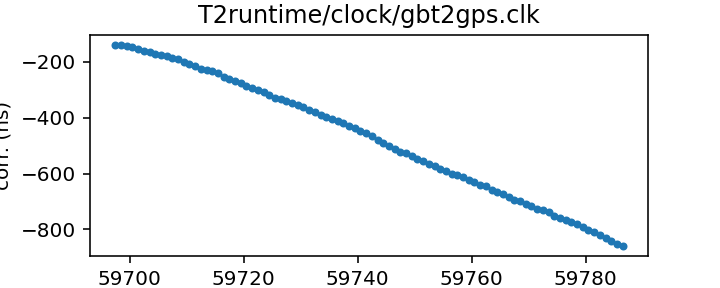
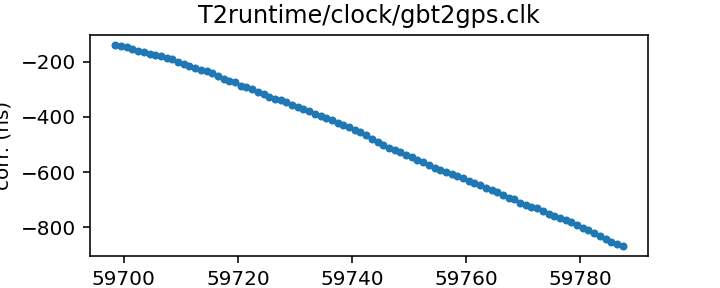
Routine gh-pages update from Github action Thu Jul 28 20:35:56 UTC 2022

diff --git a/status.md b/status.md
@@ -13,17 +13,17 @@ name of each clock file links to a page with more details.
 
 | Name | File | Corrections start | Corrections end | Last check date | Last check result 
 |:--- |:--- | --- | --- | --- |:--- 
-| [GPS to UTC](T2runtime/clock/gps2utc.clk.html) | `T2runtime/clock/gps2utc.clk` | 1993-01-01 MJD 48988.0 | 2022-06-29 MJD 59759.0 | 2022-07-27 | Unchanged 
-| [GPS to UTC (Combined Clock)](T2runtime/clock/gps2utc_cc.clk.html) | `T2runtime/clock/gps2utc_cc.clk` | 1993-01-01 MJD 48988.0 | 2022-06-29 MJD 59759.0 | 2022-07-27 | Unchanged 
-| [GPS to UTC (Corrected)](T2runtime/clock/gps2utc_c0p.clk.html) | `T2runtime/clock/gps2utc_c0p.clk` | 2010-12-29 MJD 55559.0 | 2022-06-29 MJD 59759.0 | 2022-07-27 | Unchanged 
-| [GBT](tempo/clock/time_gbt.dat.html) | `tempo/clock/time_gbt.dat` | 2000-12-31 MJD 51909.5 | 2022-07-26 MJD 59786.5 | 2022-07-27 | Updated 
-| [GBT (TEMPO2 converted from TEMPO)](T2runtime/clock/gbt2gps.clk.html) | `T2runtime/clock/gbt2gps.clk` | 2000-12-31 MJD 51909.5 | 2022-07-26 MJD 59786.5 | 2022-07-27 | Updated 
+| [GPS to UTC](T2runtime/clock/gps2utc.clk.html) | `T2runtime/clock/gps2utc.clk` | 1993-01-01 MJD 48988.0 | 2022-06-29 MJD 59759.0 | 2022-07-28 | Unchanged 
+| [GPS to UTC (Combined Clock)](T2runtime/clock/gps2utc_cc.clk.html) | `T2runtime/clock/gps2utc_cc.clk` | 1993-01-01 MJD 48988.0 | 2022-06-29 MJD 59759.0 | 2022-07-28 | Unchanged 
+| [GPS to UTC (Corrected)](T2runtime/clock/gps2utc_c0p.clk.html) | `T2runtime/clock/gps2utc_c0p.clk` | 2010-12-29 MJD 55559.0 | 2022-06-29 MJD 59759.0 | 2022-07-28 | Unchanged 
+| [GBT](tempo/clock/time_gbt.dat.html) | `tempo/clock/time_gbt.dat` | 2000-12-31 MJD 51909.5 | 2022-07-27 MJD 59787.5 | 2022-07-28 | Updated 
+| [GBT (TEMPO2 converted from TEMPO)](T2runtime/clock/gbt2gps.clk.html) | `T2runtime/clock/gbt2gps.clk` | 2000-12-31 MJD 51909.5 | 2022-07-27 MJD 59787.5 | 2022-07-28 | Updated 
 | [Jodrell Bank](T2runtime/clock/jb2gps.clk.html) | `T2runtime/clock/jb2gps.clk` | 2006-10-13 MJD 54021.4 | 2021-11-03 MJD 59521.0 | 2022-07-27 | Unchanged 
 | [Jodrell Bank Roach](T2runtime/clock/jbroach2jb.clk.html) | `T2runtime/clock/jbroach2jb.clk` | 2006-10-13 MJD 54021.4 | 2018-03-20 MJD 58197.6 | 2022-07-27 | Unchanged 
 | [Jodrell Bank DFB](T2runtime/clock/jbdfb2jb.clk.html) | `T2runtime/clock/jbdfb2jb.clk` | 2006-10-13 MJD 54021.4 | 2017-05-11 MJD 57884.0 | 2022-07-27 | Unchanged 
 | [Meerkat (observatory)](T2runtime/clock/mk2utc_observatory.clk.html) | `T2runtime/clock/mk2utc_observatory.clk` | 2019-01-01 MJD 58484.0 | 2022-07-12 MJD 59773.0 | 2022-07-25 | Updated 
-| [Leap seconds](tempo/clock/leap.sec.html) | `tempo/clock/leap.sec` | 1972-07-01 MJD 41499.0 | 2017-01-01 MJD 57754.0 | 2022-07-27 | Unchanged 
-| [UT1 table](tempo/clock/ut1.dat.html) | `tempo/clock/ut1.dat` | 1973-01-02 MJD 41684.0 | 2023-07-29 MJD 60154.0 | 2022-07-27 | Unchanged 
+| [Leap seconds](tempo/clock/leap.sec.html) | `tempo/clock/leap.sec` | 1972-07-01 MJD 41499.0 | 2017-01-01 MJD 57754.0 | 2022-07-28 | Unchanged 
+| [UT1 table](tempo/clock/ut1.dat.html) | `tempo/clock/ut1.dat` | 1973-01-02 MJD 41684.0 | 2023-08-05 MJD 60161.0 | 2022-07-28 | Updated 
 
 
 
@@ -63,21 +63,21 @@ name of each clock file links to a page with more details.
 
 | Name | File | Corrections start | Corrections end | Last check date | Last check result 
 |:--- |:--- | --- | --- | --- |:--- 
-| [GPS to UTC (TEMPO2)](T2runtime/clock/gps2utc_tempo2.clk.html) | `T2runtime/clock/gps2utc_tempo2.clk` | 1996-03-27 MJD 50169.0 | 2020-10-27 MJD 59149.0 | 2022-07-21 | Unchanged 
+| [GPS to UTC (TEMPO2)](T2runtime/clock/gps2utc_tempo2.clk.html) | `T2runtime/clock/gps2utc_tempo2.clk` | 1996-03-27 MJD 50169.0 | 2020-10-27 MJD 59149.0 | 2022-07-28 | Unchanged 
 | [GBT (TEMPO2)](T2runtime/clock/gbt2gps_tempo2.clk.html) | `T2runtime/clock/gbt2gps_tempo2.clk` | 2000-12-31 MJD 51909.5 | 2020-02-25 MJD 58904.5 | 2022-07-25 | Unchanged 
-| [Jodrell Bank (TEMPO)](tempo/clock/time_jb.dat.html) | `tempo/clock/time_jb.dat` | 2006-10-13 MJD 54021.4 | 2019-05-13 MJD 58616.2 | 2022-07-21 | Unchanged 
-| [VLA](tempo/clock/time_vla.dat.html) | `tempo/clock/time_vla.dat` | 1990-10-27 MJD 48191.2 | 2021-03-07 MJD 59280.5 | 2022-07-21 | **Failed to download** 
+| [Jodrell Bank (TEMPO)](tempo/clock/time_jb.dat.html) | `tempo/clock/time_jb.dat` | 2006-10-13 MJD 54021.4 | 2019-05-13 MJD 58616.2 | 2022-07-28 | Unchanged 
+| [VLA](tempo/clock/time_vla.dat.html) | `tempo/clock/time_vla.dat` | 1990-10-27 MJD 48191.2 | 2021-03-07 MJD 59280.5 | 2022-07-28 | **Failed to download** 
 | [VLA (TEMPO2)](T2runtime/clock/vla2gps.clk.html) | `T2runtime/clock/vla2gps.clk` | 2015-02-01 MJD 57054.6 | 2021-03-07 MJD 59280.5 | 2022-07-27 | Unchanged 
 | [VLA to NIST](T2runtime/clock/vla2nist.clk.html) | `T2runtime/clock/vla2nist.clk` | 1990-10-27 MJD 48191.2 | 1993-11-13 MJD 49304.0 | 2022-07-27 | Unchanged 
-| [FAST](tempo/clock/time_fast.dat.html) | `tempo/clock/time_fast.dat` | 2017-07-26 MJD 57960.4 | 2019-09-18 MJD 58744.0 | 2022-07-21 | **Failed to download** 
-| [WSRT](T2runtime/clock/wsrt2gps.clk.html) | `T2runtime/clock/wsrt2gps.clk` | 1999-01-01 MJD 51179.5 | 2015-06-29 MJD 57202.1 | 2022-07-21 | Unchanged 
-| [WSRT (TEMPO)](tempo/clock/time_wsrt.dat.html) | `tempo/clock/time_wsrt.dat` | 1987-07-24 MJD 47000.0 | 2007-12-24 MJD 54458.0 | 2022-07-21 | **Validation failed** 
+| [FAST](tempo/clock/time_fast.dat.html) | `tempo/clock/time_fast.dat` | 2017-07-26 MJD 57960.4 | 2019-09-18 MJD 58744.0 | 2022-07-28 | **Failed to download** 
+| [WSRT](T2runtime/clock/wsrt2gps.clk.html) | `T2runtime/clock/wsrt2gps.clk` | 1999-01-01 MJD 51179.5 | 2015-06-29 MJD 57202.1 | 2022-07-28 | Unchanged 
+| [WSRT (TEMPO)](tempo/clock/time_wsrt.dat.html) | `tempo/clock/time_wsrt.dat` | 1987-07-24 MJD 47000.0 | 2007-12-24 MJD 54458.0 | 2022-07-28 | **Validation failed** 
 | [Parkes](T2runtime/clock/pks2gps.clk.html) | `T2runtime/clock/pks2gps.clk` | 1858-11-17 MJD 0.0 | 2019-07-31 MJD 58695.4 | 2022-07-27 | Unchanged 
-| [Parkes (TEMPO)](tempo/clock/time_pks.dat.html) | `tempo/clock/time_pks.dat` | 1979-05-07 MJD 44000.0 | 2011-07-03 MJD 55745.8 | 2022-07-21 | **Validation failed** 
+| [Parkes (TEMPO)](tempo/clock/time_pks.dat.html) | `tempo/clock/time_pks.dat` | 1979-05-07 MJD 44000.0 | 2011-07-03 MJD 55745.8 | 2022-07-28 | **Validation failed** 
 | [SRT](T2runtime/clock/srt2gps.clk.html) | `T2runtime/clock/srt2gps.clk` | 2013-03-20 MJD 56371.0 | 2019-12-11 MJD 58828.0 | 2022-07-27 | Unchanged 
 | [Effelsberg](T2runtime/clock/eff2gps.clk.html) | `T2runtime/clock/eff2gps.clk` | 1993-11-29 MJD 49320.0 | 2015-06-22 MJD 57195.5 | 2022-07-27 | Unchanged 
 | [Effelsberg Asterix/PSRix](T2runtime/clock/effix2gps.clk.html) | `T2runtime/clock/effix2gps.clk` | 2011-01-01 MJD 55562.5 | 2021-03-21 MJD 59294.5 | 2022-07-27 | Unchanged 
-| [NUPPI](tempo/clock/time_nuppi.dat.html) | `tempo/clock/time_nuppi.dat` | 2005-03-07 MJD 53436.0 | 2015-11-08 MJD 57334.6 | 2022-07-21 | Unchanged 
+| [NUPPI](tempo/clock/time_nuppi.dat.html) | `tempo/clock/time_nuppi.dat` | 2005-03-07 MJD 53436.0 | 2015-11-08 MJD 57334.6 | 2022-07-28 | Unchanged 
 | [Meerkat (TEMPO2)](T2runtime/clock/mk2utc.clk.html) | `T2runtime/clock/mk2utc.clk` | 2019-01-01 MJD 58484.0 | 2021-02-22 MJD 59268.0 | 2022-07-27 | Unchanged 
 | [MOST](T2runtime/clock/mo2gps.clk.html) | `T2runtime/clock/mo2gps.clk` | 2003-12-27 MJD 53000.0 | 2018-09-06 MJD 58367.0 | 2022-07-27 | Unchanged 
 | [Nancay to obspm](T2runtime/clock/ncyobs2obspm.clk.html) | `T2runtime/clock/ncyobs2obspm.clk` | 1988-05-18 MJD 47299.6 | 2021-11-01 MJD 59519.6 | 2022-07-27 | Unchanged 

diff --git a/tempo/clock/time_pks.dat.md b/tempo/clock/time_pks.dat.md
@@ -19,12 +19,11 @@ in the same file, distinguished only by observatory code.
 | Clock file start | 1979-05-07 MJD 44000.0 |
 | Clock file end | 2011-07-03 MJD 55745.8 |
 | Update interval (days) | 7 |
-| Last update attempt | 2022-07-21 |
+| Last update attempt | 2022-07-28 |
 | Last update result | Validation failed |
 
 Log entries from the last few update attempts:
 ```
-2022-05-26 08:30:09.101 - Unchanged
 2022-05-26 08:35:06.984 - Unchanged
 2022-06-02 11:47:05.758 - Validation failed: Unable to read new version of tempo/clock/time_pks.dat: Clock file /tmp/astropy-download-24192-5sncxo_8 in format tempo appears to be out of order
 2022-06-09 13:27:38.008 - Validation failed: Unable to read new version of tempo/clock/time_pks.dat: Clock file /tmp/astropy-download-10364-7jnkh3d2 in format tempo appears to be out of order
@@ -34,6 +33,7 @@ Log entries from the last few update attempts:
 2022-07-07 20:34:07.360 - Validation failed: Unable to read new version of tempo/clock/time_pks.dat: Clock file /tmp/astropy-download-1640-8l29dqds appears to be out of order
 2022-07-14 20:34:56.831 - Validation failed: Unable to read new version of tempo/clock/time_pks.dat: Clock file /tmp/astropy-download-1679-msdd286f appears to be out of order
 2022-07-21 20:36:18.364 - Validation failed: Unable to read new version of tempo/clock/time_pks.dat: Clock file /tmp/astropy-download-2016-9yjuxc1r appears to be out of order
+2022-07-28 20:35:31.301 - Validation failed: Unable to read new version of tempo/clock/time_pks.dat: Clock file /tmp/astropy-download-1680-r06lf7o3 appears to be out of order
 ```
 [Full log](https://raw.githubusercontent.com/ipta/pulsar-clock-corrections/main/log/tempo/clock/time_pks.dat.log)
 

diff --git a/tempo/clock/time_wsrt.dat.md b/tempo/clock/time_wsrt.dat.md
@@ -19,12 +19,11 @@ should be the same information.
 | Clock file start | 1987-07-24 MJD 47000.0 |
 | Clock file end | 2007-12-24 MJD 54458.0 |
 | Update interval (days) | 7 |
-| Last update attempt | 2022-07-21 |
+| Last update attempt | 2022-07-28 |
 | Last update result | Validation failed |
 
 Log entries from the last few update attempts:
 ```
-2022-05-26 08:30:08.203 - Unchanged
 2022-05-26 08:35:05.738 - Unchanged
 2022-06-02 11:47:05.272 - Validation failed: Unable to read new version of tempo/clock/time_wsrt.dat: Clock file /tmp/astropy-download-24192-_cck1rfs in format tempo appears to be out of order
 2022-06-09 13:27:37.454 - Validation failed: Unable to read new version of tempo/clock/time_wsrt.dat: Clock file /tmp/astropy-download-10364-k344pvg3 in format tempo appears to be out of order
@@ -34,6 +33,7 @@ Log entries from the last few update attempts:
 2022-07-07 20:34:06.057 - Validation failed: Unable to read new version of tempo/clock/time_wsrt.dat: Clock file /tmp/astropy-download-1640-uwe9kvx_ appears to be out of order
 2022-07-14 20:34:56.461 - Validation failed: Unable to read new version of tempo/clock/time_wsrt.dat: Clock file /tmp/astropy-download-1679-6xl79ppw appears to be out of order
 2022-07-21 20:36:17.981 - Validation failed: Unable to read new version of tempo/clock/time_wsrt.dat: Clock file /tmp/astropy-download-2016-5ws3rvd7 appears to be out of order
+2022-07-28 20:35:31.041 - Validation failed: Unable to read new version of tempo/clock/time_wsrt.dat: Clock file /tmp/astropy-download-1680-ud_zwd6k appears to be out of order
 ```
 [Full log](https://raw.githubusercontent.com/ipta/pulsar-clock-corrections/main/log/tempo/clock/time_wsrt.dat.log)
 

diff --git a/T2runtime/clock/gbt2gps.clk.md b/T2runtime/clock/gbt2gps.clk.md
@@ -23,14 +23,13 @@ If questions arise about the conversion, contact Anne Archibald
 | Format | tempo2 |
 | Bogus last correction | False |
 | Clock file start | 2000-12-31 MJD 51909.5 |
-| Clock file end | 2022-07-26 MJD 59786.5 |
+| Clock file end | 2022-07-27 MJD 59787.5 |
 | Update interval (days) | 1 |
-| Last update attempt | 2022-07-27 |
+| Last update attempt | 2022-07-28 |
 | Last update result | Updated |
 
 Log entries from the last few update attempts:
 ```
-2022-07-18 20:34:26.957 - Updated
 2022-07-19 20:35:02.997 - Updated
 2022-07-20 20:36:46.645 - Updated
 2022-07-21 20:36:15.090 - Updated
@@ -40,12 +39,13 @@ Log entries from the last few update attempts:
 2022-07-25 20:33:27.419 - Updated
 2022-07-26 20:32:24.976 - Updated
 2022-07-27 20:32:57.918 - Updated
+2022-07-28 20:35:28.492 - Updated
 ```
 [Full log](https://raw.githubusercontent.com/ipta/pulsar-clock-corrections/main/log/T2runtime/clock/gbt2gps.clk.log)
 
 Leading comments from clock file:
 
-    # This file was automatically converted from tempo/clock/time_gbt.dat on 2022-07-27 20:32:57.849
+    # This file was automatically converted from tempo/clock/time_gbt.dat on 2022-07-28 20:35:28.431
 
 
 

diff --git a/tempo/clock/time_vla.dat.md b/tempo/clock/time_vla.dat.md
@@ -17,12 +17,11 @@ This file is pulled from the PINT repository and may not be fully up-to-date.
 | Clock file start | 1990-10-27 MJD 48191.2 |
 | Clock file end | 2021-03-07 MJD 59280.5 |
 | Update interval (days) | 7 |
-| Last update attempt | 2022-07-21 |
+| Last update attempt | 2022-07-28 |
 | Last update result | Failed to download |
 
 Log entries from the last few update attempts:
 ```
-2022-05-26 08:30:06.202 - Unchanged
 2022-05-26 08:35:04.394 - Unchanged
 2022-06-02 11:47:03.505 - Unchanged
 2022-06-09 13:27:35.487 - Unchanged
@@ -32,6 +31,7 @@ Log entries from the last few update attempts:
 2022-07-07 20:34:04.693 - Failed to download: HTTP Error 404: Not Found
 2022-07-14 20:34:55.420 - Failed to download: HTTP Error 404: Not Found
 2022-07-21 20:36:16.688 - Failed to download: HTTP Error 404: Not Found
+2022-07-28 20:35:29.913 - Failed to download: HTTP Error 404: Not Found
 ```
 [Full log](https://raw.githubusercontent.com/ipta/pulsar-clock-corrections/main/log/tempo/clock/time_vla.dat.log)
 

diff --git a/tempo/clock/time_fast.dat.md b/tempo/clock/time_fast.dat.md
@@ -24,12 +24,11 @@ to contact is 缪晨晨 <miaocc@bao.ac.cn>, Chenchen Miao.
 | Clock file start | 2017-07-26 MJD 57960.4 |
 | Clock file end | 2019-09-18 MJD 58744.0 |
 | Update interval (days) | 7 |
-| Last update attempt | 2022-07-21 |
+| Last update attempt | 2022-07-28 |
 | Last update result | Failed to download |
 
 Log entries from the last few update attempts:
 ```
-2022-05-26 08:30:06.890 - Unchanged
 2022-05-26 08:35:04.487 - Unchanged
 2022-06-02 11:47:04.057 - Unchanged
 2022-06-09 13:27:35.927 - Unchanged
@@ -39,6 +38,7 @@ Log entries from the last few update attempts:
 2022-07-07 20:34:04.892 - Failed to download: HTTP Error 404: Not Found
 2022-07-14 20:34:55.538 - Failed to download: HTTP Error 404: Not Found
 2022-07-21 20:36:16.926 - Failed to download: HTTP Error 404: Not Found
+2022-07-28 20:35:30.183 - Failed to download: HTTP Error 404: Not Found
 ```
 [Full log](https://raw.githubusercontent.com/ipta/pulsar-clock-corrections/main/log/tempo/clock/time_fast.dat.log)
 

diff --git a/tempo/clock/ut1.dat.md b/tempo/clock/ut1.dat.md
@@ -28,14 +28,13 @@ If there are any questions, contact Anne Archibald
 | File | `tempo/clock/ut1.dat` |
 | Authority | observatory |
 | File start | 1973-01-02 MJD 41684.0 |
-| File end | 2023-07-29 MJD 60154.0 |
+| File end | 2023-08-05 MJD 60161.0 |
 | Update interval (days) | 0 |
-| Last update attempt | 2022-07-27 |
-| Last update result | Unchanged |
+| Last update attempt | 2022-07-28 |
+| Last update result | Updated |
 
 Log entries from the last few update attempts:
 ```
-2022-07-18 20:34:42.923 - Unchanged
 2022-07-19 20:35:13.994 - Unchanged
 2022-07-20 20:36:58.086 - Unchanged
 2022-07-21 20:36:28.559 - Updated
@@ -45,5 +44,6 @@ Log entries from the last few update attempts:
 2022-07-25 20:33:41.041 - Unchanged
 2022-07-26 20:32:32.500 - Unchanged
 2022-07-27 20:33:15.765 - Unchanged
+2022-07-28 20:35:42.134 - Updated
 ```
 [Full log](https://raw.githubusercontent.com/ipta/pulsar-clock-corrections/main/log/tempo/clock/ut1.dat.log)

diff --git a/tempo/clock/time_gbt.dat.md b/tempo/clock/time_gbt.dat.md
@@ -18,14 +18,13 @@ If questions arise, contact Ryan S. Lynch <rlynch@nrao.edu>.
 | Format | tempo |
 | Bogus last correction | False |
 | Clock file start | 2000-12-31 MJD 51909.5 |
-| Clock file end | 2022-07-26 MJD 59786.5 |
+| Clock file end | 2022-07-27 MJD 59787.5 |
 | Update interval (days) | 1 |
-| Last update attempt | 2022-07-27 |
+| Last update attempt | 2022-07-28 |
 | Last update result | Updated |
 
 Log entries from the last few update attempts:
 ```
-2022-07-18 20:34:26.357 - Updated
 2022-07-19 20:35:02.924 - Updated
 2022-07-20 20:36:46.575 - Updated
 2022-07-21 20:36:14.996 - Updated
@@ -35,6 +34,7 @@ Log entries from the last few update attempts:
 2022-07-25 20:33:26.969 - Updated
 2022-07-26 20:32:24.915 - Updated
 2022-07-27 20:32:57.847 - Updated
+2022-07-28 20:35:28.429 - Updated
 ```
 [Full log](https://raw.githubusercontent.com/ipta/pulsar-clock-corrections/main/log/tempo/clock/time_gbt.dat.log)
 

diff --git a/T2runtime/clock/wsrt2gps.clk.md b/T2runtime/clock/wsrt2gps.clk.md
@@ -16,12 +16,11 @@ This file is pulled from the TEMPO2 repository and may not be fully up-to-date.
 | Clock file start | 1999-01-01 MJD 51179.5 |
 | Clock file end | 2015-06-29 MJD 57202.1 |
 | Update interval (days) | 7 |
-| Last update attempt | 2022-07-21 |
+| Last update attempt | 2022-07-28 |
 | Last update result | Unchanged |
 
 Log entries from the last few update attempts:
 ```
-2022-05-26 08:30:07.676 - Unchanged
 2022-05-26 08:35:05.269 - Unchanged
 2022-06-02 11:47:04.760 - Unchanged
 2022-06-09 13:27:36.597 - Unchanged
@@ -31,6 +30,7 @@ Log entries from the last few update attempts:
 2022-07-07 20:34:05.417 - Unchanged
 2022-07-14 20:34:55.888 - Unchanged
 2022-07-21 20:36:17.305 - Unchanged
+2022-07-28 20:35:30.731 - Unchanged
 ```
 [Full log](https://raw.githubusercontent.com/ipta/pulsar-clock-corrections/main/log/T2runtime/clock/wsrt2gps.clk.log)
 

diff --git a/tempo/clock/time_nuppi.dat.md b/tempo/clock/time_nuppi.dat.md
@@ -16,12 +16,11 @@ This file is pulled from the TEMPO repository and may not be fully up-to-date.
 | Clock file start | 2005-03-07 MJD 53436.0 |
 | Clock file end | 2015-11-08 MJD 57334.6 |
 | Update interval (days) | 7 |
-| Last update attempt | 2022-07-21 |
+| Last update attempt | 2022-07-28 |
 | Last update result | Unchanged |
 
 Log entries from the last few update attempts:
 ```
-2022-05-26 08:30:08.739 - Unchanged
 2022-05-26 08:35:06.477 - Unchanged
 2022-06-02 11:47:06.211 - Unchanged
 2022-06-09 13:27:38.587 - Unchanged
@@ -31,6 +30,7 @@ Log entries from the last few update attempts:
 2022-07-07 20:34:07.912 - Unchanged
 2022-07-14 20:34:57.114 - Unchanged
 2022-07-21 20:36:18.723 - Unchanged
+2022-07-28 20:35:31.539 - Unchanged
 ```
 [Full log](https://raw.githubusercontent.com/ipta/pulsar-clock-corrections/main/log/tempo/clock/time_nuppi.dat.log)
 

diff --git a/tempo/clock/time_jb.dat.md b/tempo/clock/time_jb.dat.md
@@ -16,12 +16,11 @@ This file is pulled from the TEMPO repository and may not be fully up-to-date.
 | Clock file start | 2006-10-13 MJD 54021.4 |
 | Clock file end | 2019-05-13 MJD 58616.2 |
 | Update interval (days) | 7 |
-| Last update attempt | 2022-07-21 |
+| Last update attempt | 2022-07-28 |
 | Last update result | Unchanged |
 
 Log entries from the last few update attempts:
 ```
-2022-05-26 08:30:04.557 - Unchanged
 2022-05-26 08:35:02.198 - Unchanged
 2022-06-02 11:47:03.062 - Unchanged
 2022-06-09 13:27:34.964 - Unchanged
@@ -31,6 +30,7 @@ Log entries from the last few update attempts:
 2022-07-07 20:34:04.498 - Unchanged
 2022-07-14 20:34:55.281 - Unchanged
 2022-07-21 20:36:16.459 - Unchanged
+2022-07-28 20:35:29.621 - Unchanged
 ```
 [Full log](https://raw.githubusercontent.com/ipta/pulsar-clock-corrections/main/log/tempo/clock/time_jb.dat.log)
 

diff --git a/T2runtime/clock/gps2utc_c0p.clk.md b/T2runtime/clock/gps2utc_c0p.clk.md
@@ -30,12 +30,11 @@ about the BIPM's published corrections, contact <tai@bipm.org>.
 | Clock file start | 2010-12-29 MJD 55559.0 |
 | Clock file end | 2022-06-29 MJD 59759.0 |
 | Update interval (days) | 1 |
-| Last update attempt | 2022-07-27 |
+| Last update attempt | 2022-07-28 |
 | Last update result | Unchanged |
 
 Log entries from the last few update attempts:
 ```
-2022-07-18 20:34:25.476 - Unchanged
 2022-07-19 20:35:00.998 - Unchanged
 2022-07-20 20:36:46.160 - Unchanged
 2022-07-21 20:36:14.199 - Unchanged
@@ -45,6 +44,7 @@ Log entries from the last few update attempts:
 2022-07-25 20:33:26.005 - Unchanged
 2022-07-26 20:32:24.316 - Unchanged
 2022-07-27 20:32:57.095 - Unchanged
+2022-07-28 20:35:27.460 - Unchanged
 ```
 [Full log](https://raw.githubusercontent.com/ipta/pulsar-clock-corrections/main/log/T2runtime/clock/gps2utc_c0p.clk.log)
 
